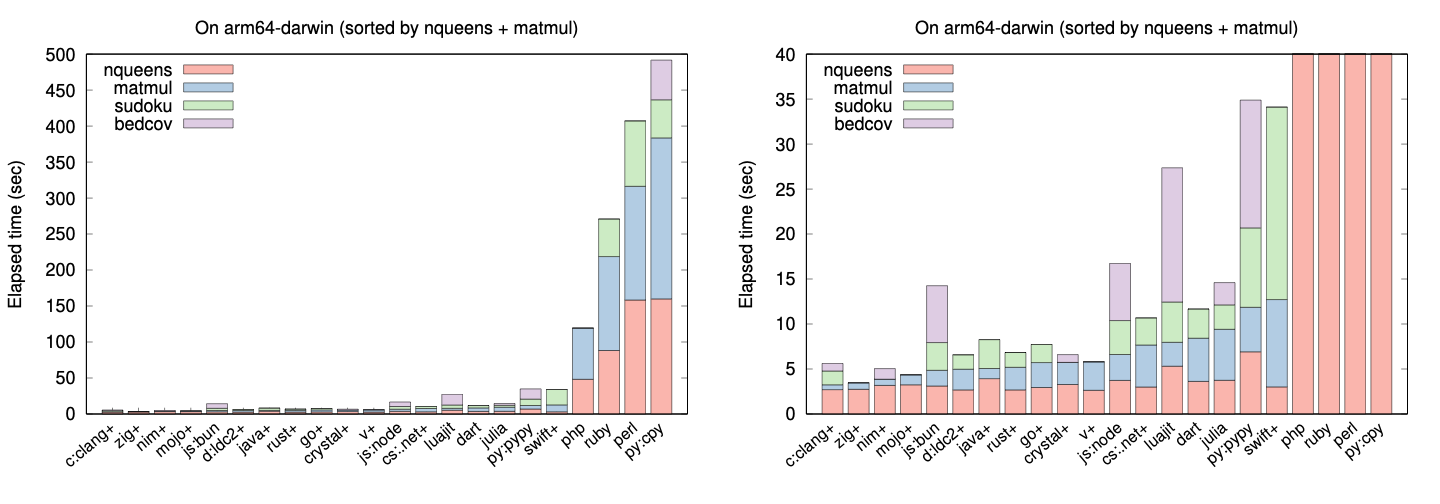
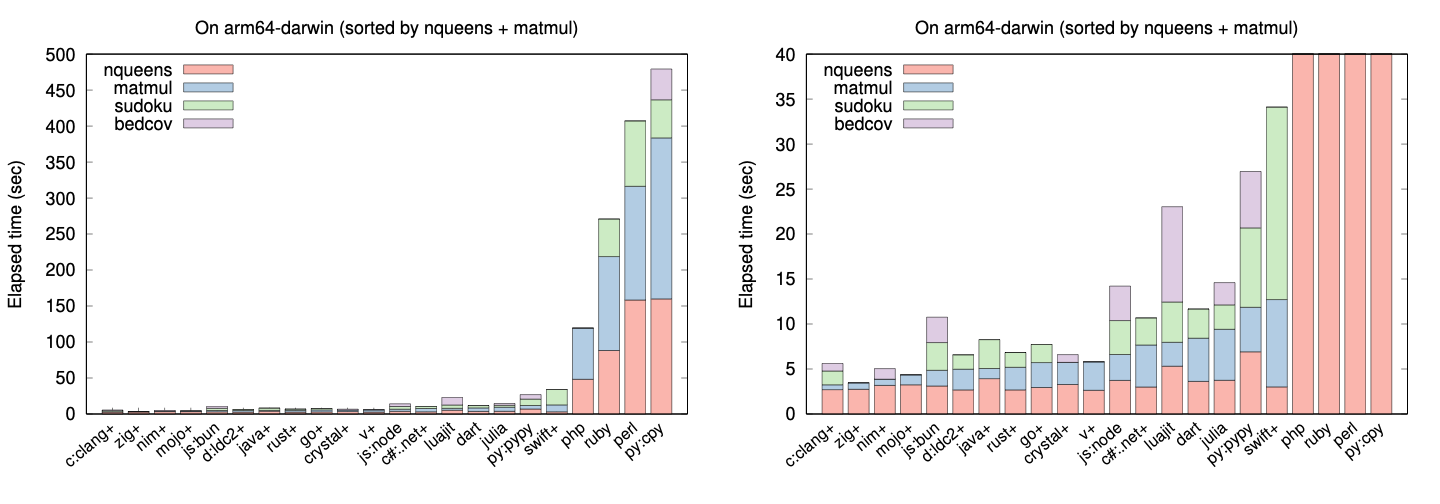
accelerated bedcov for js, lua and py

diff --git a/src/javascript/bedcov.js b/src/javascript/bedcov.js
@@ -1,8 +1,15 @@
 #!/usr/bin/env -S k8 --single-threaded
 
+function iit_sort_copy(a) {
+	a.sort((x, y) => (x[0] - y[0]));
+	let b = [];
+	for (let i = 0; i < a.length; ++i)
+		b.push(a[i].slice(0));
+	return b;
+}
+
 function iit_index(a) {
 	if (a.length == 0) return -1;
-	a.sort(function(x, y) { return x[0] - y[0] });
 	let last, last_i, k;
 	for (let i = 0; i < a.length; i += 2) last = a[i][2] = a[i][1], last_i = i;
 	for (k = 1; 1<<k <= a.length; ++k) {
@@ -79,7 +86,7 @@ function main(args)
 	let bit_st = 28, bit_len = 14, seed = 11, n = 1000000;
 	if (args.length >= 1) n = parseInt(args[0]);
 	let rng = splitmix32(seed)
-	const a1 = gen_intv(n, rng, bit_st, bit_len);
+	const a1 = iit_sort_copy(gen_intv(n, rng, bit_st, bit_len));
 	const a2 = gen_intv(n, rng, bit_st, bit_len);
 	iit_index(a1);
 	let tot_cov = 0;

diff --git a/src/python/bedcov.py b/src/python/bedcov.py
@@ -68,7 +68,10 @@ if __name__ == "__main__":
 	bit_st, bit_len, seed, n = 28, 14, 11, 1000000
 	if len(sys.argv) >= 2: n = int(sys.argv[1])
 	rng = splitmix32(seed)
-	a1 = sorted(gen_intv(n, rng, bit_st, bit_len), key=lambda t:t[0])
+	a1_raw = sorted(gen_intv(n, rng, bit_st, bit_len), key=lambda t:t[0])
+	a1 = []
+	for i in range(len(a1_raw)):
+		a1.append(a1_raw[i].copy())
 	a2 = gen_intv(n, rng, bit_st, bit_len)
 	max_level = iit_index(a1)
 	tot_cov = 0

diff --git a/README.md b/README.md
@@ -1,4 +1,18 @@
-## Introduction
+## Table of Contents
+
+- [Introduction](#intro)
+- [Results](#result)
+  - [Overall impressions](#overall)
+  - [Caveats](#caveat)
+    - [Startup time](#startup)
+	- [Elapsed time vs CPU time](#cputime)
+  - [Subtle optimizations](#opt)
+	- [Optimizing inner loops](#matmul)
+	- [Controlling memory layout](#memlayout)
+- [Discussions](#conclusion)
+- [Appendix: Timing on Apple M1 Macbook Pro](#table)
+
+## <a name="intro"></a>Introduction
 
 Programming Language Benchmark v2 (plb2) evaluates the performance of 20
 programming languages on four CPU-intensive tasks. It is a follow-up to
@@ -31,44 +45,78 @@ implementations in plb. As I am mostly a C programmer, implementations in other
 languages may be suboptimal and implementations in functional languages are
 lacking. **Pull requests are welcomed!**
 
-## Results and Discussions
+## <a name="result"></a>Results
 
 The following figure summarizes the elapsed time of each implementation
 measured on an Apple M1 MacBook Pro. [Hyperfine][hyperfine] was used for timing
 except for a few slow implementations which were timed with the "time" bash
 command without repetition. A plus sign "+" indicates an explicit compilation
-step. Exact timing can be found in the table towards the end of this README.
-The figure was programmatically generated from the table but may be outdated.
+step. Exact timing can be found in the [table](#table) towards the end of this
+README. The figure was programmatically generated from the table but may be
+outdated.
 
 <img align="left" src="analysis/rst-m1.png"/>
 
-### Overall impression
+### <a name="overall"></a>Overall impression
 
-It is not surprising that purely interpreated languages including Perl and
-[CPython][cpy] (the official Python implementation) are the slowest. Although
-the latest PHP and Ruby have integrated JIT compilation and are faster than
-Perl and CPython, they do not compete with [PyPy][pypy], a JIT-based Python
-implementation. It is unfortunate that PyPy is not adopted as the official
-Python implementation.
+Programming language implementations in plb2 can be classified into four groups
+depending on how and when compilation is done:
 
-The other JIT-based language implementations without requiring a separate
-compilation step, including [Bun][bun] and Node for JavaScript, Dart, LuaJIT,
-PyPy and Julia, are broadly comparable in performance. They are tens of times
-faster than PHP, Ruby, Perl and CPython. Although Julia is somehow slower on
-matmul, it is a lot faster on bedcov (see side notes below for explanation).
-LuaJIT was often [considered][luablog] as one of the fastest scripting language
-implementations but it is no longer competitive due to continuous improvements
-to the Julia and JavaScript runtimes.
+1. Purely interpretted with no compilation (Perl and [CPython][cpy], the
+   official Python implementation). Not surprisingly, these are the slowest
+   language implementations in this benchmark.
 
-Except Swift, language implementations requiring explicit compilation are also
-broadly comparable in performance. They are probably all fast enough for
-practical use cases. Nonetheless, no task in plb2 puts stress on memory
-allocations. We might see large differences for a task allocating millions of
-small objects.
+2. JIT compiled without a separate compilation step (Dart, all JavaScript
+   runtimes, Julia, LuaJIT, PHP, PyPy and Ruby3 with [YJIT][yjit]). These
+   language implementations have to balance compilation and running time to
+   achieve the best overall performance.
 
-### Side notes
+   In this group, although PHP and Ruby3 are faster than Perl and CPython, they
+   are still tens of times slower than PyPy and others. Notably, LuaJIT was
+   often [considered][luablog] as one of the fastest scripting language
+   implementations 10 years ago but it is no longer competitive due to
+   continuous improvements to Julia and JavaScript engines.
 
-#### Most language implementations cannot optimize matmul
+3. JIT compiled with a separate compilation step (Java and C#). With separate
+   compilation, these language implementations can afford to generate optimized
+   bytecode at length that run slightly faster at runtime, though only by a
+   little in comparison to group 2.
+
+4. [Ahead-of-time compilation][aot] (the rest). Applying all kinds of
+   optimizations available on specific hardware, these compilers, except Swift,
+   tend to generate the fastest executables.
+
+### <a name="caveat"></a>Caveats
+
+#### <a name="startup"></a>Startup time
+
+Some JIT-based language runtimes take up to ~0.3 second to compile and warm-up.
+We are not separating out this startup time. Nonetheless, because most
+benchmarks run for several seconds, including the startup time does not greatly
+affect the results.
+
+#### <a name="cputime"></a>Elapsed time vs CPU time
+
+Although no implementations use multithreading, language runtimes may be doing
+extra work, such as garbage collection, in a separate thread. In this case, the
+CPU time (user plus system) may be longer than elapsed wall-clock time. Julia,
+in particular, takes noticeably more CPU time than wall-clock time even for the
+simplest nqueen benchmark. In plb2, we are measuring the elapsed wall-clock
+time because that is the number users often see. The ranking of CPU time may be
+slightly different.
+
+### <a name="opt"></a>Subtle optimizations
+
+#### <a name="memlayout"></a>Controlling memory layout
+
+When implementing bedcov in Julia, C and many compiled languages, it is
+preferred to have an array of objects in a contiguous memory block such that
+adjacent objects are close in memory. This helps cache efficiency. In most
+scripting languages, unfortunately, we have to put references to objects in an
+array at the cost of cache locality. The issue can be alleviated by cloning
+objects to a new array. This doubles the speed of PyPy and Bun.
+
+#### <a name="matmul"></a>Optimizing inner loops
 
 The bottleneck of matrix multiplication falls in the following nested loop:
 ```cpp
@@ -81,44 +129,35 @@ It is obvious that `c[i]`, `b[k]` and `a[i][k]` can be moved out of the inner
 loop to reduce the frequency of matrix access. The Clang compiler can apply
 this optimization. Manual optimization may actually hurt performance.
 
-However, most other languages cannot optimize this nested loop. If we manually
-move `a[i][k]` to the loop above it, we can often improve their performance.
-Manual optimization may still be necessary.
+However, **most other languages cannot optimize this nested loop.** If we
+manually move `a[i][k]` to the loop above it, we can often improve their
+performance. Manual optimization may still be necessary for these languages.
 
-#### Elapsed time vs CPU time
+## <a name="conclusion"></a>Discussions
 
-Although all implementations intend to use one thread only, language runtimes
-may invoke garbage collection in a separate thread. In this case, the CPU time
-(user plus system) may be longer than elapsed wall-clock time. Julia, in
-particular, takes noticeably more CPU time than wall-clock time even for the
-simplest nqueen benchmark. In plb2, we are measuring the elapsed wall-clock
-time. The ranking of CPU time may be slightly different.
-
-#### Startup time
-
-### Tabled results on Apple M1 Macbook Pro
+## <a name="table"></a>Appendix: Timing on Apple M1 Macbook Pro
 
 |Label    |Language  |Runtime|Version| nqueen | matmul | sudoku | bedcov |
 |:--------|:---------|:------|:------|-------:|-------:|-------:|-------:|
 |c:clang+ |C         |Clang  |15.0.0 | 2.70   | 0.54   | 1.54   | 0.84   |
 |crystal+ |Crystal   |       |1.10.0 | 3.28   | 2.45   |        | 0.87   |
-|cs:.net+ |C#        |.NET   |8.0.100| 3.00   | 4.67   | 3.01   |        |
+|c#:.net+ |C#        |.NET   |8.0.100| 3.00   | 4.67   | 3.01   |        |
 |d:ldc2+  |D         |LDC2   |2.105.2| 2.68   | 2.30   | 1.60   |        |
 |dart     |Dart      |       |3.2.4  | 3.62   | 4.81   | 3.24   |        |
 |go+      |Go        |       |1.21.5 | 2.94   | 2.77   | 2.04   |        |
 |java+    |Java      |OpenJDK|20.0.1 | 3.92   | 1.14   | 3.20   |        |
-|js:bun   |JavaScript|Bun    |1.0.20 | 3.11   | 1.75   | 3.07   | 6.33   |
-|js:deno  |JavaScript|Deno   |1.39.1 | 4.00   | 3.06   | 4.04   | 6.50   |
-|js:k8    |JavaScript|k8     |1.0    | 3.79   | 2.99   | 3.76   | 6.66   |
-|js:node  |JavaScript|Node   |21.5.0 | 3.73   | 2.88   | 3.77   | 6.36   |
+|js:bun   |JavaScript|Bun    |1.0.20 | 3.11   | 1.75   | 3.07   | 2.83   |
+|js:deno  |JavaScript|Deno   |1.39.1 | 4.00   | 3.06   | 4.04   | 3.87   |
+|js:k8    |JavaScript|k8     |1.0    | 3.79   | 2.99   | 3.76   | 4.02   |
+|js:node  |JavaScript|Node   |21.5.0 | 3.73   | 2.88   | 3.77   | 3.83   |
 |julia    |Julia     |       |1.10.0 | 3.75   | 5.66   | 2.72   | 2.47   |
-|luajit   |Lua       |LuaJIT |2.1    | 5.31   | 2.66   | 4.48   | 14.91  |
+|luajit   |Lua       |LuaJIT |2.1    | 5.31   | 2.66   | 4.48   | 10.59  |
 |mojo+    |Mojo      |       |0.6.1  | 3.24   | 1.12   |        |        |
 |nim+     |Nim       |       |2.0.2  | 3.18   | 0.69   |        | 1.18   |
 |perl     |Perl      |       |5.34.1 | 158.34 | 158.01 | 90.78  |        |
 |php      |PHP       |       |8.3    | 48.15  | 71.20  |        |        |
-|py:pypy  |Python    |Pypy   |7.3.14 | 6.91   | 4.95   | 8.82   | 14.21  |
-|py:cpy   |Python    |CPython|3.11.7 | 159.97 | 223.66 | 52.88  | 55.15  |
+|py:pypy  |Python    |Pypy   |7.3.14 | 6.91   | 4.95   | 8.82   | 6.27   |
+|py:cpy   |Python    |CPython|3.11.7 | 159.97 | 223.66 | 52.88  | 42.84  |
 |ruby     |Ruby      |(YJIT) |3.3.0  | 88.15  | 130.51 | 52.26  |        |
 |rust+    |Rust      |       |1.75.0 | 2.68   | 2.51   | 1.65   |        |
 |swift+   |Swift     |       |5.9.0  | 3.01   | 9.70   | 21.40  |        |
@@ -136,3 +175,5 @@ time. The ranking of CPU time may be slightly different.
 [pypy]: https://www.pypy.org
 [bun]: https://bun.sh
 [luablog]: https://attractivechaos.wordpress.com/2011/01/23/amazed-by-luajit/
+[yjit]: https://github.com/ruby/ruby/blob/master/doc/yjit/yjit.md
+[aot]: https://en.wikipedia.org/wiki/Ahead-of-time_compilation
